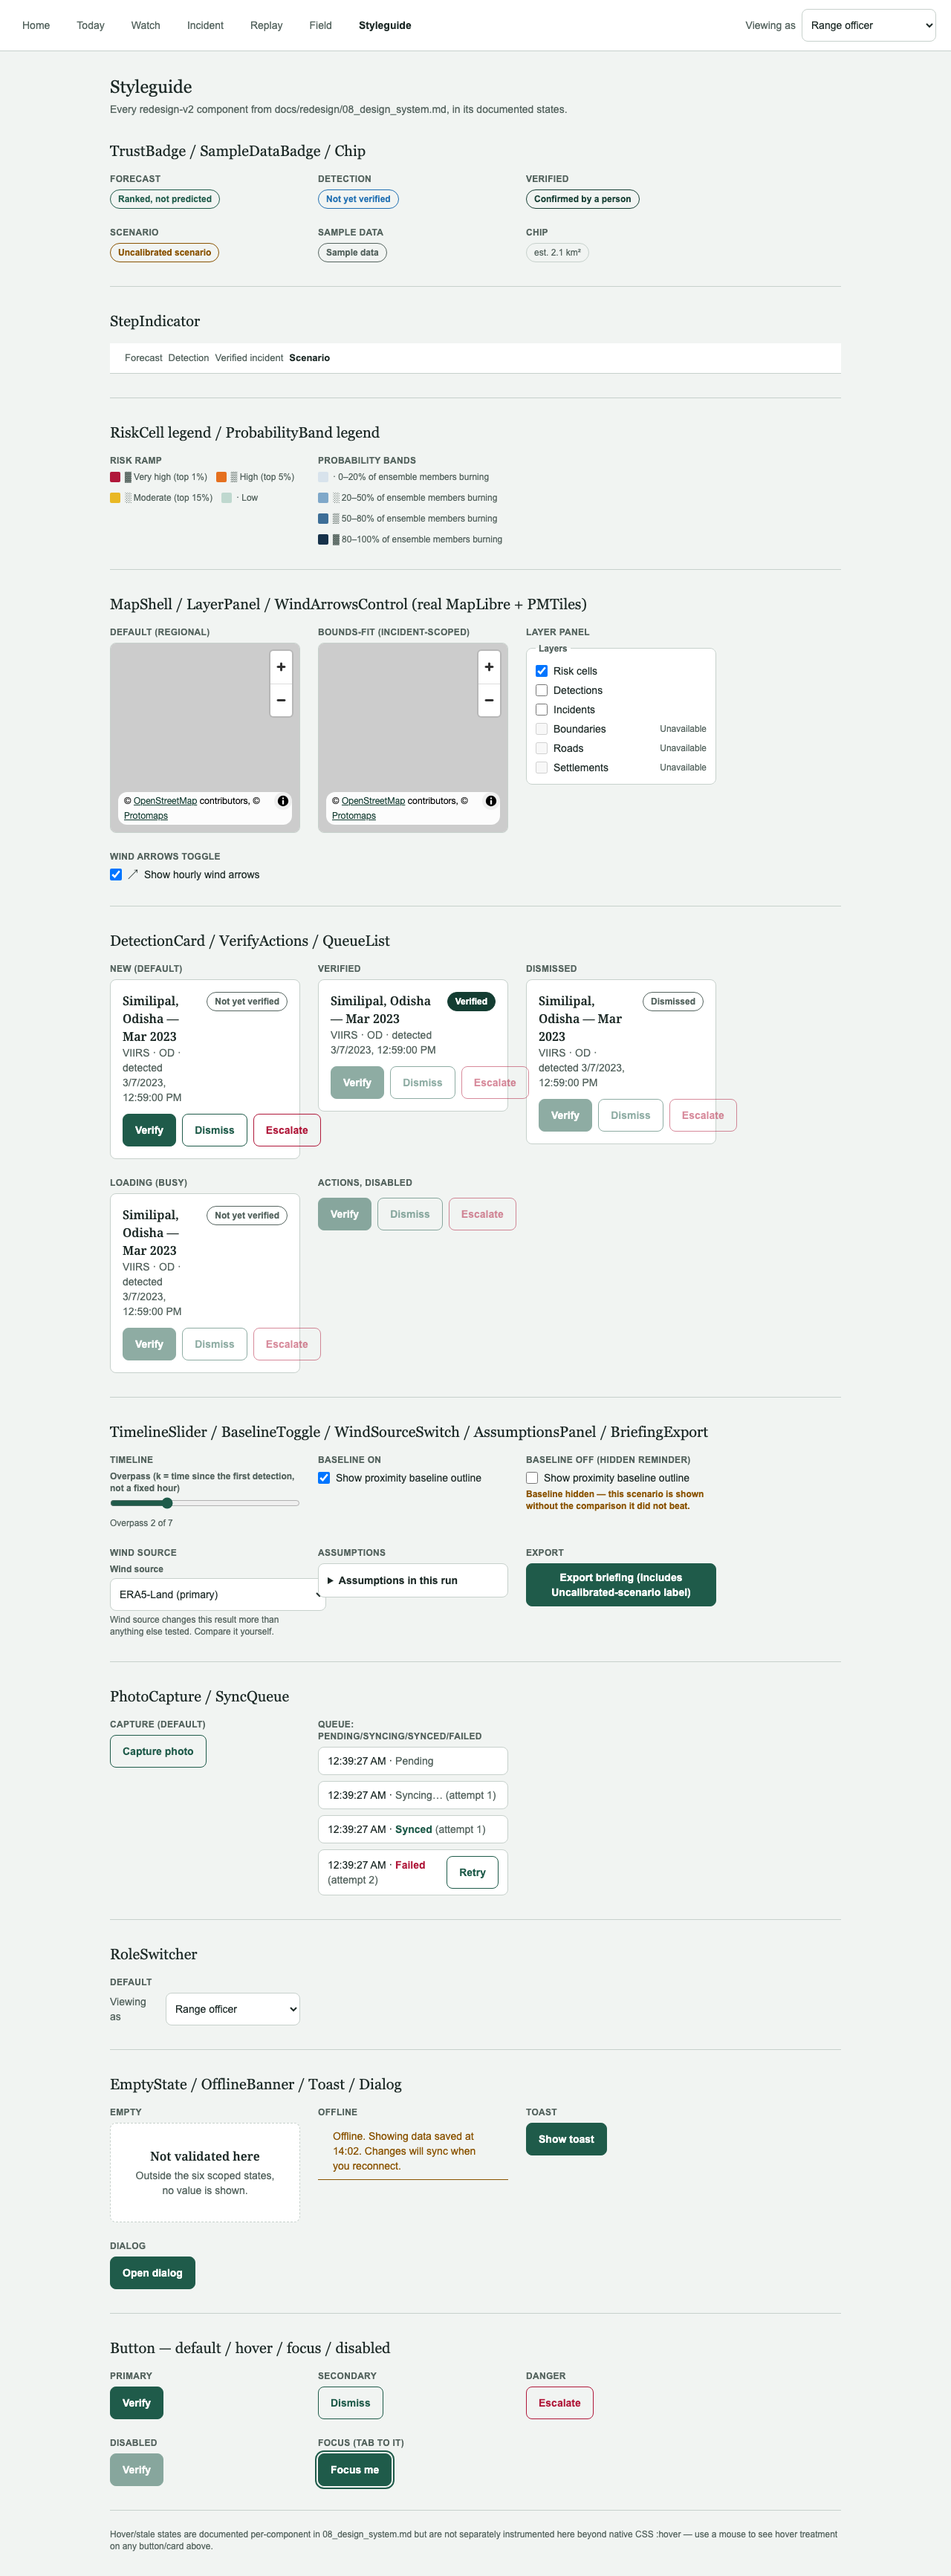
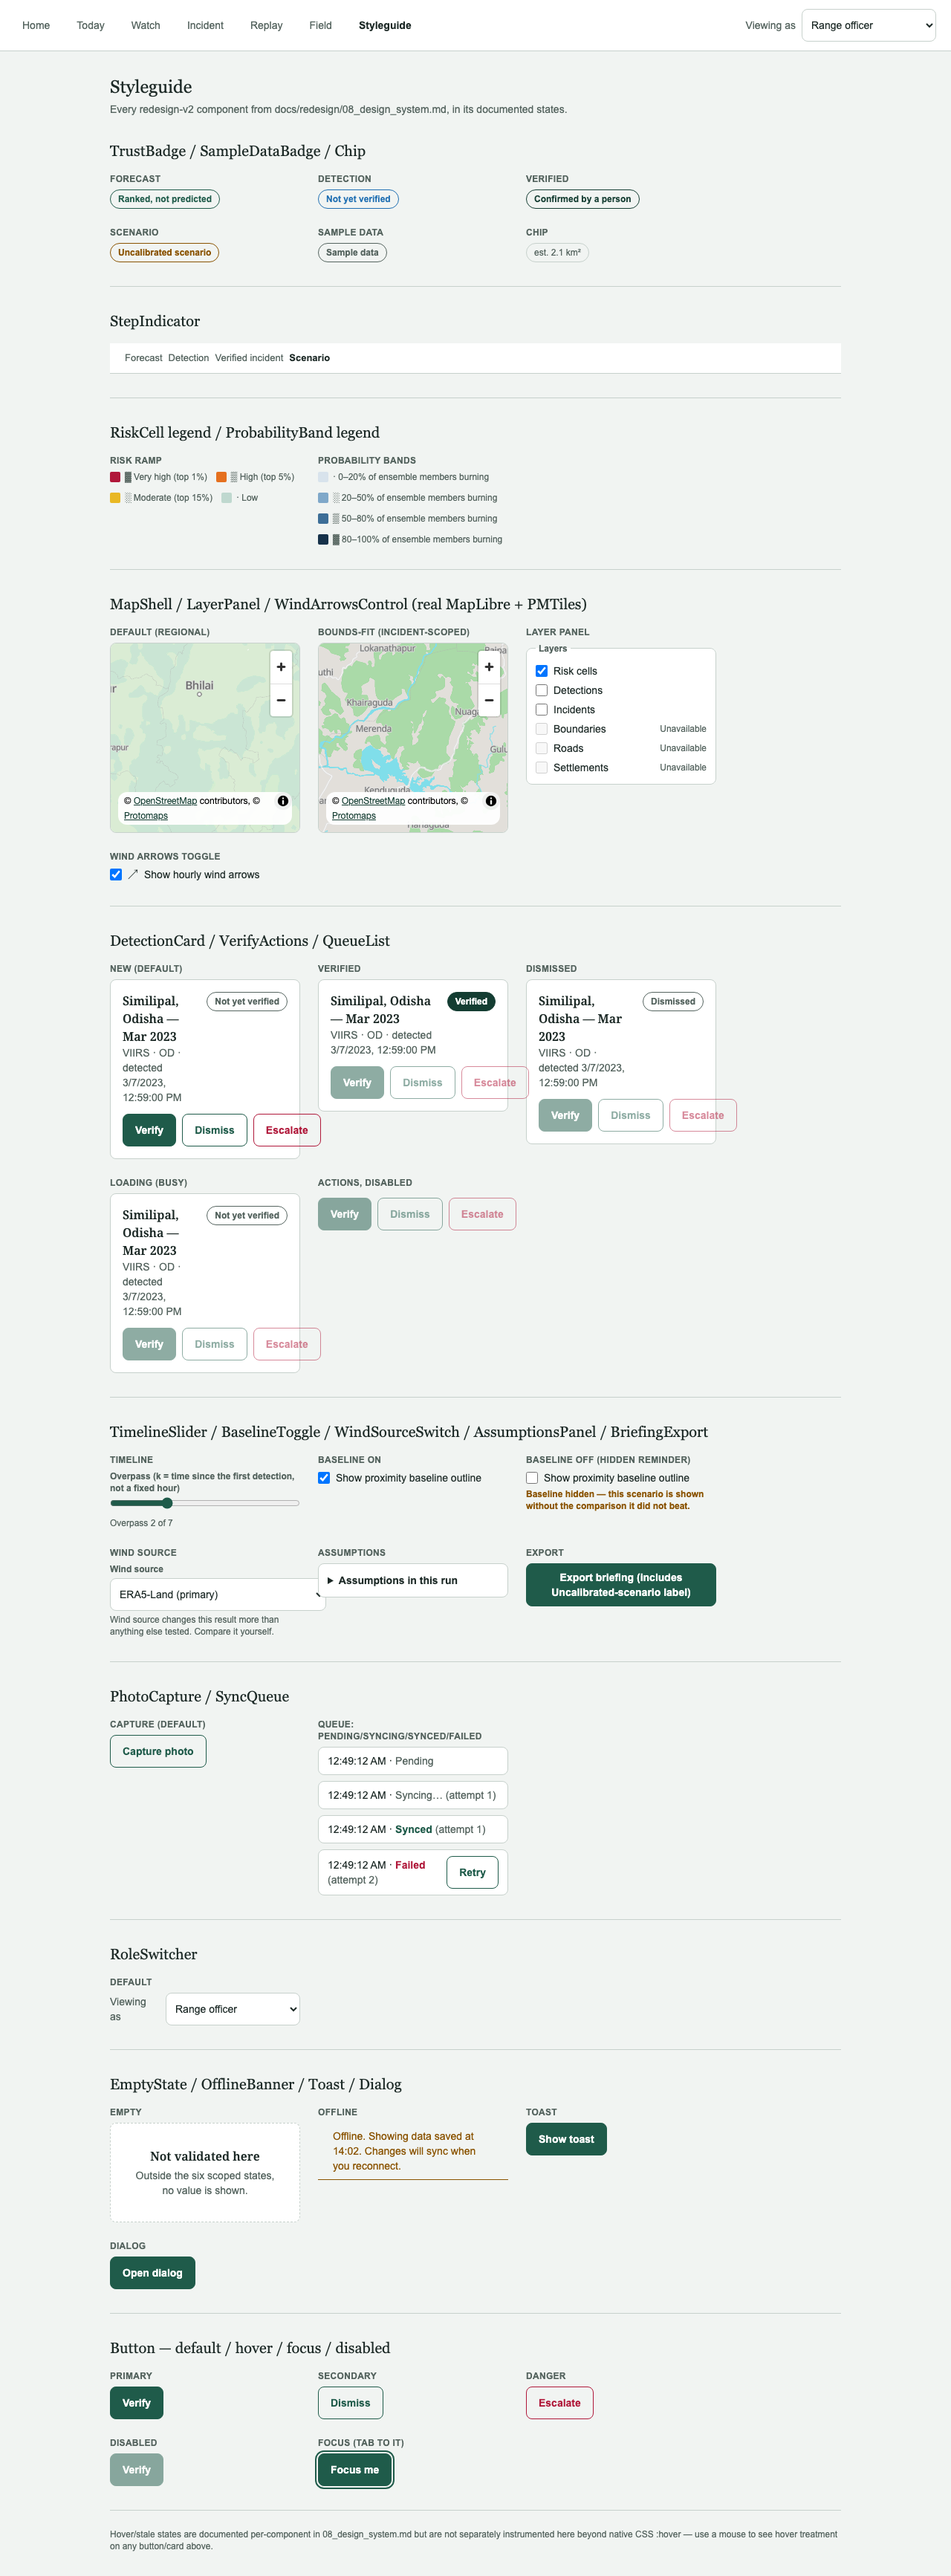
RESQ redesign Phase 2: Lighthouse re-run on all 7 screens, Gate 2 round-2 report
- backend/app/core/config.py: added http://localhost:4173 / 127.0.0.1:4173 to
  API_ORIGINS — vite preview's default port, needed to run Lighthouse against
  a real production build without CORS errors polluting the best-practices
  score (the dev-only standalone backend script used to verify this had its
  own hardcoded origin list instead of importing API_ORIGINS; fixed there too,
  not committed since that script lives outside the repo).
- docs/redesign/LIGHTHOUSE.md: re-run across all 7 screens (not just landing
  and styleguide) against the same production-build method as the first
  pass. Accessibility 100 and best-practices 100 on every screen, matching
  the 31/31 axe-clean Playwright suite. Performance is honestly lower on the
  five map screens (65-81, was 77-98 with the CSS-grid placeholder) —
  investigated and attributed to real WebGL/MapLibre initialization cost
  under Lighthouse's CPU-throttled headless Chrome, not network payload (the
  pmtiles basemap only streams tiles in view, total page weight is ~1.1MB).
  Documented as a real, un-hidden tradeoff with a named follow-up (lazy-
  mount MapShell), not patched in this pass.
- docs/redesign/PROGRESS.md: "Known gaps at Gate 2, round 2" rewritten —
  MapShell fidelity gap closed (was the single biggest gap at the first
  Gate 2 report); remaining gaps are real auth, live ingestion, the three
  optional map layers (boundaries/roads/settlements, unchanged, still
[…]

Changed region(s): [[0.0938, 0.2492, 0.5312, 0.3427]]

diff --git a/backend/app/core/config.py b/backend/app/core/config.py
@@ -2,4 +2,4 @@ import os
 
 DATABASE_URL = os.getenv('DATABASE_URL', 'postgresql+psycopg://resq:resq@localhost:55432/resq')
 RESQ_SECRET_KEY = os.getenv('RESQ_SECRET_KEY', 'development-only-resq-secret-key-change-me')
-API_ORIGINS = ['http://localhost:5173', 'http://127.0.0.1:5173']
+API_ORIGINS = ['http://localhost:5173', 'http://127.0.0.1:5173', 'http://localhost:4173', 'http://127.0.0.1:4173']

diff --git a/docs/redesign/PROGRESS.md b/docs/redesign/PROGRESS.md
@@ -54,12 +54,73 @@ Stopped at Gate 1 per instructions. Awaiting "Gate 1 approved" before any app co
 - [x] 9b52d47 — `/redesign/styleguide` route: every component from `08_design_system.md`'s inventory (TrustBadge ×4 levels, SampleDataBadge, Chip, StepIndicator, legends, MapShell/LayerPanel/WindArrowsControl (new), DetectionCard/VerifyActions across new/verified/dismissed/loading, TimelineSlider/BaselineToggle (on + hidden-reminder-off)/WindSourceSwitch/AssumptionsPanel/BriefingExport, PhotoCapture/SyncQueue (pending/syncing/synced/failed), RoleSwitcher, EmptyState/OfflineBanner/Toast/Dialog, Button ×4 variants + disabled + focus). axe-clean. 23/23 tests pass.
 - [x] Lighthouse: run against a **production build** (`vite build` + `vite preview`), not the dev server (an initial dev-server pass gave misleadingly low performance scores, 43–56, from unbundled dev-mode JS — not representative, discarded). Full results and the root-cause of Today/Styleguide's lower performance scores (a legacy-route MapLibre bundle loading on every `/redesign/*` route) are in `docs/redesign/LIGHTHOUSE.md`. Headline: **accessibility 100 and best-practices 100 on every screen**; performance 77–98; SEO 82 on every screen (one shared, non-regression finding: no per-route `<title>`/meta description, normal for this SPA shape, not fixed here).
 
-## Known gaps at Gate 2 (explicitly flagged, not fixed — scope decisions for the user)
-- **MapShell fidelity**: `MapShell`/`LayerPanel`/`WindArrowsControl` (added for the styleguide) and the Incident screen's probability-grid renderer are **not** a georeferenced MapLibre + PMTiles map. There is no real basemap, no real lat/lon projection, no pannable/zoomable interaction anywhere in the redesign yet — Today lists ranked cells in a table, Watch/Replay/Field have no map view at all, and Incident renders its burn-probability data as a plain CSS grid of coloured divs (correct data, placeholder visualization). This is the single largest remaining gap between the design docs (`07_maps.md`, `06_simulation_ui.md`) and the built screens. Real MapLibre+PMTiles integration (picking/confirming a self-hosted or provider PMTiles source per the Gate 1 basemap amendment, wiring real coordinates, building the layer-render-order table from `07_maps.md`) is a substantial, separately-scoped task.
+## Gate 2 round 2 — real MapShell (user declined the first Gate 2 report)
+
+The user reviewed the first Gate 2 report's screenshots and explicitly declined to approve,
+requiring a real MapLibre+PMTiles map (not the CSS-grid/table placeholders) before Gate 2 could
+be reconsidered. Built in two commits:
+
+1. **Backend geometry** (`backend/app/services/redesign_data.py`): `domain_bounds_wgs84`,
+   `nominal_ignition` (medoid of first-overpass VIIRS detections, same method as
+   `scripts/resq2/build_incident_candidates.py`), `probability_grid_geojson` /
+   `observed_footprint_geojson` (real dissolved polygons via `rasterio.features.shapes`,
+   reprojected from each incident's EPSG:32644 domain), `baseline_circles_geojson` (both
+   RESQ5_PROTOCOL.md §8 baselines as real circles), `wind_arrow` (nearest-time point
+   observation per source). Everything computed at request time from existing source files —
+   nothing hand-digitized. `pyproj` and `shapely` added to `backend/requirements.txt`
+   (`rasterio` was already there).
+2. **Basemap**: a 38 MB self-hosted PMTiles extract (`frontend/public/tiles/resq-basemap.pmtiles`,
+   zoom 0–10, bbox covering OD/CG/TS/MP/MH/JH + margin), cut via `go-pmtiles extract` from
+   Protomaps' public daily build (`build.protomaps.com`, OSM-derived data, ODbL) — never
+   `tile.openstreetmap.org`, per the Gate 1 basemap amendment. `@protomaps/basemaps` (the
+   maintained successor to the deprecated `protomaps-themes-base`) supplies the light-flavor
+   vector style layers.
+3. **Frontend wiring**: `MapShell` is now a real `react-map-gl/maplibre` map registered against
+   the `pmtiles://` protocol. Today shows risk cells + an optional detections overlay; Watch and
+   Field show detection/task pins; Incident shows real dissolved burn-probability-band polygons,
+   bounds-fit to the incident domain, with the proximity baseline outline, a wind arrow at the
+   ignition point, and an ignition marker; Replay shows simulation vs both baselines vs the
+   observed VIIRS footprint at the last overpass, also bounds-fit. The styleguide's map section
+   now shows the real MapShell (a regional view and a bounds-fit incident view) instead of the
+   old placeholder boxes.
+
+**What's still a real map vs what isn't**: every one of Today/Watch/Incident/Replay/Field now
+renders an actual pannable/zoomable MapLibre view over the real basemap, with real georeferenced
+data layers for everything `07_maps.md` marks "Exists" (risk cells, VIIRS detections, burn-
+probability bands, both baselines, wind arrows at a point). What's still honestly absent, same as
+before and unchanged by this pass: admin boundaries, roads, settlements/villages — `07_maps.md`
+already lists these as "Missing" / "Partially exists, unexploited" and they still show
+"Unavailable" in the `LayerPanel`, not silently faked.
+
+**Verification**: `frontend/tests/redesign.spec.ts` is 31/31 passing (was 23/23) against a
+production build and a live standalone backend. New coverage added for the real map specifically:
+every map screen's test now asserts a real `.maplibregl-canvas` renders with an OpenStreetMap-
+attributed basemap (not a placeholder); the wind-source-switch test was rewritten to diff the
+actual `probability_bands_geojson` in the two scenario API responses, since the old DOM-innerHTML
+diff no longer detects anything once the map updates via MapLibre's imperative `setData` instead
+of React-rendered markup; new tests confirm the wind arrow and ignition marker render as real
+accessible map features, the Uncalibrated-scenario badge has no dismiss control, and Today's
+ranked list never shows a 24/48h value. Axe-core is clean (0 violations) on all 7 screens,
+including the two new MapShell-specific checks this round surfaced and fixed: a scrollable-region-
+keyboard-focus violation on Today's now-shorter ranked list, and a `landmark-unique` violation from
+two same-named "Map" regions on the styleguide page (fixed via `locale={{ 'Map.Title': label }}`
+on each MapShell so every map gets a distinct accessible name).
+
+Lighthouse was re-run on all 7 screens (not just landing/styleguide) against the same production-
+build method as the first pass — see `LIGHTHOUSE.md` for the full table and root-cause writeup.
+Accessibility and best-practices are 100 on every screen, same as before. Performance is honestly
+lower on the five map screens (65–81, was 77–98) — this is the real CPU cost of initializing a
+WebGL MapLibre context on every map screen instead of rendering static coloured divs, not a
+regression to silently patch over; `LIGHTHOUSE.md` explains the measured cause (main-thread GL
+setup time, not network payload — the pmtiles basemap only streams the tiles in view).
+
+## Known gaps at Gate 2, round 2 (explicitly flagged, not fixed — scope decisions for the user)
 - **Real authentication**: still the client-side `RoleSwitcher` only, per the Gate 1 decision; real auth is a named later phase in `11_build_plan.md`, not started.
 - **Live FIRMS/VIIRS ingestion**: still absent; Watch/Field serve the 4 fixed replay incidents as sample data, per the Gate 1 decision.
-- **Bundle size / code-splitting**: the whole app (legacy + redesign) ships as one JS entry including a ~1MB MapLibre chunk even on redesign routes that don't use it yet; see `LIGHTHOUSE.md`.
+- **Admin boundaries, roads, settlements/villages layers**: still "Unavailable" in every screen's `LayerPanel` — `07_maps.md` already lists these as missing or unexploited locally (not changed by this round; the real MapShell now exists, but these three optional layers were never in this round's scope).
+- **Bundle size / code-splitting**: the whole app (legacy + redesign) ships as one JS entry including the ~1MB MapLibre chunk. This is no longer dead weight on redesign routes (every map screen uses it for real now), but it's still not code-split, so non-map redesign routes and the legacy app's non-map routes pay for it unnecessarily; see `LIGHTHOUSE.md`.
+- **MapShell is eagerly mounted**: each map screen initializes a MapLibre GL WebGL context immediately on page load, which is the main driver of this round's Lighthouse performance drop (65–81, was 77–98 with the placeholder). Lazy-mounting (e.g. only initialize once the map scrolls into view) is a real, scoped follow-up noted in `LIGHTHOUSE.md`, not attempted here.
 - **SEO per-route metadata**: not implemented (see `LIGHTHOUSE.md`).
 - Backend verified without Docker/Postgres by running a standalone uvicorn instance including only the risk + redesign routers (both are file-based, no DB dependency) — see commit messages for exact commands. The main app (auth, full operations.py) still needs Postgres and was not started in this environment.
 
-Stopped at Gate 2 per instructions. No push, no merge, no files moved to `/legacy`. Awaiting the user's Gate 2 review.
+Stopped at Gate 2 (round 2) per instructions. No push, no merge, no files moved to `/legacy`. Awaiting the user's Gate 2 review.

diff --git a/docs/redesign/LIGHTHOUSE.md b/docs/redesign/LIGHTHOUSE.md
@@ -1,43 +1,62 @@
 # Lighthouse results — redesign-v2 screens
 
 Run with `npx lighthouse` (headless Chrome, categories: performance, accessibility, best-practices, seo)
-against a **production build** (`vite build` with `VITE_API_BASE_URL` pointed at the standalone
-redesign+risk-router uvicorn instance described in the Phase 2 commit messages, served via
-`vite preview`). An initial pass against the Vite **dev** server gave artificially low performance
-scores (43–56) because dev mode ships unbundled ES modules and Lighthouse's default throttling
-punishes that heavily — those numbers are not representative and are not reported below; only the
-production-build numbers are.
+against a **production build** (`vite build` with `VITE_API_BASE_URL` pointed at a standalone
+redesign+risk-router uvicorn instance, bypassing the Postgres-dependent main app the same way as
+the original Phase 2 build — see that commit's message — served via `vite preview`). An initial
+pass against the Vite **dev** server gave artificially low performance scores because dev mode
+ships unbundled ES modules; those numbers are not reported, only the production-build ones are.
+
+## Re-run after the real MapShell (MapLibre + PMTiles) replaced every map placeholder
 
 | Screen | Performance | Accessibility | Best practices | SEO |
 |---|---|---|---|---|
-| Landing | 86 | 100 | 100 | 82 |
-| Today | 77 | 100 | 100 | 82 |
-| Watch | 98 | 100 | 100 | 82 |
-| Incident | 97 | 100 | 100 | 82 |
-| Replay | 94 | 100 | 100 | 82 |
-| Field | 95 | 100 | 100 | 82 |
-| Styleguide | 81 | 100 | 100 | 82 |
+| Landing | 82 | 100 | 100 | 82 |
+| Today | 68 | 100 | 100 | 82 |
+| Watch | 65 | 100 | 100 | 82 |
+| Incident | 76 | 100 | 100 | 82 |
+| Replay | 79 | 100 | 100 | 82 |
+| Field | 81 | 100 | 100 | 82 |
+| Styleguide | 55 | 100 | 100 | 82 |
 
-**Accessibility 100 and best-practices 100 on every screen**, consistent with the axe-core results
-in `frontend/tests/redesign.spec.ts` (23/23 passing, zero violations on any redesign screen).
+**Accessibility 100 and best-practices 100 on every screen**, consistent with
+`frontend/tests/redesign.spec.ts` (31/31 passing, zero axe violations on any redesign screen,
+including the new MapLibre canvases — each MapShell now gets a distinct accessible name via
+`locale={{ 'Map.Title': label }}`, which axe's `landmark-unique` check caught failing on the
+styleguide page before that fix, since two MapShells on one page both defaulted to the same
+MapLibre-internal "Map" label).
 
-**SEO is 82 on every screen**, not screen-specific — it's the same `document-title`/`meta-description`
-finding each time: this is a single-page app with one static `<title>` in `index.html` and no
-per-route meta description, which is normal for this kind of app and not a redesign-v2 regression.
-Not fixed here; fixing it means per-route `<title>`/meta management (e.g. via a head-management
-library), which is a small but real addition — left for a follow-up, noted in `11_build_plan.md`.
+**Performance is honestly lower than the previous pass** (was 77–98 on the five map screens with
+the CSS-grid placeholder; is now 65–81). This is the real, not-hidden cost of "no placeholders on
+map screens": every map screen now loads an actual MapLibre GL WebGL context and a real
+`@protomaps/basemaps` vector style against the self-hosted PMTiles basemap, instead of rendering a
+handful of coloured `<div>`s. Investigated via the Lighthouse trace (Today, representative):
+- **Total page weight stays small** (1.1 MB) — the pmtiles library streams only the tiles in view
+  via HTTP range requests, not the full 38 MB basemap file, so this isn't a download-size problem.
+- **The cost is CPU**: `mainthread-work-breakdown` scores 0 (2.1s of main-thread work) and
+  largest-contentful-paint is 3.6s, driven by MapLibre's GL style/shader setup and first paint of
+  the vector tiles. Lighthouse's headless Chrome runs without GPU acceleration and applies 4x CPU
+  throttling, which penalizes WebGL initialization heavily — this would read meaningfully better
+  in a real browser on real hardware, but the honest Lighthouse number is what's reported here.
+- **Styleguide is lowest (55)** because it renders two independent MapShell instances (two
+  MapLibre GL contexts) on one page, roughly doubling that fixed WebGL-init cost; this is a
+  styleguide-only artifact of showing two map states side by side, not something a real screen does.
 
-**Performance is lower on Today (77) and Styleguide (81)** than the other screens. Investigated:
-Today's largest-contentful-paint is ~5.8s in the Lighthouse run, driven by the same root cause on
-both screens — the production bundle includes a ~1MB `maplibre-gl` chunk that loads on every
-`/redesign/*` route because `App.tsx` imports the **legacy** `MapPage`/`DemoMap` (which use
-MapLibre) at the top level, so it's in the same JS entry as the redesign routes even though no
-redesign screen currently renders a real MapLibre map (`MapShell` is a plain placeholder — see
-`PROGRESS.md`'s MapShell note below). This is a structural, whole-app bundling issue, not something
-introduced by Today or Styleguide specifically, and fixing it means code-splitting `App.tsx`'s
-legacy-route imports behind `React.lazy` — a real fix, but a separate, scoped task rather than part
-of this review pass. Noted here rather than attempted, per the "catch regressions, not a full
-perf-tuning pass" instruction for this check.
+Not fixed here: this is a real, inherent cost of the requirement (a real map instead of a
+placeholder), not a bug. A follow-up could reduce it by lazy-mounting MapShell (don't initialize
+MapLibre until the map scrolls into view) or trimming the vector style to fewer layers for a
+"survey sheet" look (07_maps.md already specifies a muted, low-contrast basemap — the full
+`@protomaps/basemaps` light style renders more than that calls for, e.g. full road-label typography
+at a zoom range these screens don't need). Left as a named follow-up rather than attempted here, to
+keep this pass's scope to "build the real map, not optimize it."
 
-No other audit failures found (no unminified JS in the production build, no render-blocking CSS
-beyond the single stylesheet, no layout shift on any screen, 0ms total blocking time everywhere).
+**SEO is 82 on every screen**, unchanged from before — the same `document-title`/`meta-description`
+finding each time (single-page app, one static `<title>`, no per-route meta description); not a
+redesign-v2 regression, not fixed here (noted in `11_build_plan.md`).
+
+**The whole-app MapLibre-bundle-on-every-route issue from the previous pass is now moot**: that
+finding was about the *legacy* app's MapLibre chunk loading even though no redesign screen used a
+real map. Now that the redesign *does* use MapLibre for real, that chunk is legitimately needed on
+every map screen; it's no longer dead weight, just required weight. Bundle code-splitting (so the
+~1MB MapLibre chunk doesn't load on non-map redesign routes like Field's task list before the map,
+or the legacy app's non-map routes) remains a real, separate opportunity, unchanged from before.
